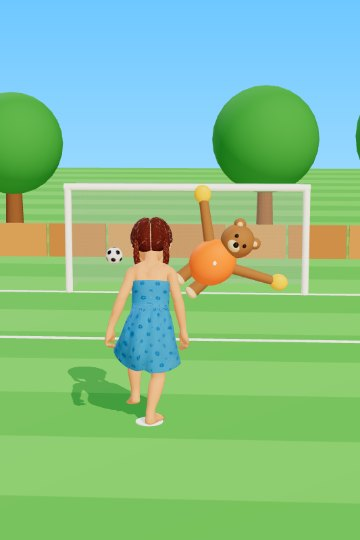
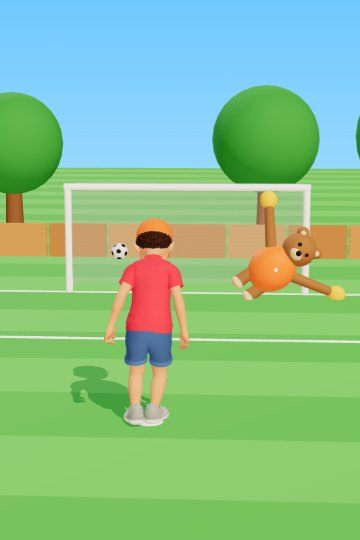
Forsiden: Hop og løb og Skateboard med en dreng, Straffespark med en dreng - seks billeder i to rækker

diff --git a/precache-manifest.js b/precache-manifest.js
@@ -1,2 +1,2 @@
-self.MINIMIG_VERSION = 'BD43AA967398ADFD';
-self.MINIMIG_FILES = ["billeder/figur.png","billeder/ikon-180.png","billeder/ikon-192.png","billeder/ikon-512.png","billeder/spil-dans.jpg","billeder/spil-gemmeleg.jpg","billeder/spil-hav.jpg","billeder/spil-straffe.jpg","bygogspil/baggrund/dansesal.jpg","bygogspil/baggrund/fodboldbane.jpg","bygogspil/baggrund/gymnastiksal.jpg","bygogspil/baggrund/havbund.jpg","bygogspil/baggrund/have.jpg","bygogspil/baggrund/ridderborg.jpg","bygogspil/baggrund/rummet.jpg","bygogspil/baggrund/skov.jpg","bygogspil/baggrund/slikland.jpg","bygogspil/baggrund/slot.jpg","bygogspil/baggrund/strand.jpg","bygogspil/baggrund/vinter.jpg","bygogspil/figur.fbx","bygogspil/figur-farve.jpg","bygogspil/figur-staa.json","bygogspil/haar-kort.jpg","bygogspil/haar-kort.json","bygogspil/ikoner/baggrund.png","bygogspil/ikoner/briller.png","bygogspil/ikoner/bryn.png","bygogspil/ikoner/bukser.png","bygogspil/ikoner/hat.png","bygogspil/ikoner/hud.png","bygogspil/ikoner/haar.png","bygogspil/ikoner/kinder.png","bygogspil/ikoner/kjoler.png","bygogspil/ikoner/mund.png","bygogspil/ikoner/naese.png","bygogspil/ikoner/navn.png","bygogspil/ikoner/ny-dreng.jpg","bygogspil/ikoner/ny-pige.jpg","bygogspil/ikoner/oejne.png","bygogspil/ikoner/oerer.png","bygogspil/ikoner/sko.png","bygogspil/ikoner/spil-gemmeleg.png","bygogspil/ikoner/spil-hav.png","bygogspil/ikoner/spil-hop.png","bygogspil/ikoner/spil-hop-bag.png","bygogspil/ikoner/spil-hop-for.png","bygogspil/ikoner/spil-oe.png","bygogspil/ikoner/spil-skate.png","bygogspil/ikoner/spil-straffe.png","bygogspil/ikoner/stilling-dans.png","bygogspil/ikoner/stilling-drej.png","bygogspil/ikoner/stilling-hop.png","bygogspil/ikoner/stilling-jubel.png","bygogspil/ikoner/stilling-kolboette.png","bygogspil/ikoner/stilling-loeb.png","bygogspil/ikoner/stilling-mindans.png","bygogspil/ikoner/stilling-spark.png","bygogspil/ikoner/stilling-staa.png","bygogspil/ikoner/stilling-vink.png","bygogspil/ikoner/stroemper.png","bygogspil/ikoner/ting.png","bygogspil/ikoner/troeje.png","bygogspil/ikoner/valg-bg-dansesal.png","bygogspil/ikoner/valg-bg-fodboldbane.png","bygogspil/ikoner/valg-bg-gymnastiksal.png","bygogspil/ikoner/valg-bg-havbund.png","bygogspil/ikoner/valg-bg-have.png","bygogspil/ikoner/valg-bg-ridderborg.png","bygogspil/ikoner/valg-bg-rummet.png","bygogspil/ikoner/valg-bg-skov.png","bygogspil/ikoner/valg-bg-slikland.png","bygogspil/ikoner/valg-bg-slot.png","bygogspil/ikoner/valg-bg-sol.png","bygogspil/ikoner/valg-bg-strand.png","bygogspil/ikoner/valg-bg-vinter.png","bygogspil/ikoner/valg-briller-hjerte.png","bygogspil/ikoner/valg-briller-runde.png","bygogspil/ikoner/valg-briller-sol.png","bygogspil/ikoner/valg-briller-stjerne.png","bygogspil/ikoner/valg-bryn-hoeje.png","bygogspil/ikoner/valg-bryn-ingen.png","bygogspil/ikoner/valg-bryn-naturlige.png","bygogspil/ikoner/valg-bryn-sure.png","bygogspil/ikoner/valg-bryn-triste.png","bygogspil/ikoner/valg-bryn-tykke.png","bygogspil/ikoner/valg-bryn-tynde.png","bygogspil/ikoner/valg-bukser-cowboy.png","bygogspil/ikoner/valg-bukser-fodbold.png","bygogspil/ikoner/valg-bukser-lange.png","bygogspil/ikoner/valg-bukser-shorts.png","bygogspil/ikoner/valg-dans.png","bygogspil/ikoner/valg-dans-arme.png","bygogspil/ikoner/valg-dans-break.png","bygogspil/ikoner/valg-dans-fjollet.png","bygogspil/ikoner/valg-dans-flair.png","bygogspil/ikoner/valg-dans-flair2.png","bygogspil/ikoner/valg-dans-hiphop.png","bygogspil/ikoner/valg-fald.png","bygogspil/ikoner/valg-hat-kanin.png","bygogspil/ikoner/valg-hat-kasket.png","bygogspil/ikoner/valg-hat-krone.png","bygogspil/ikoner/valg-hat-sloejfe.png","bygogspil/ikoner/valg-hop.png","bygogspil/ikoner/valg-hop-hoejt.png","bygogspil/ikoner/valg-hop-lille.png","bygogspil/ikoner/valg-hop-over.png","bygogspil/ikoner/valg-haar-fletning.png","bygogspil/ikoner/valg-haar-fletninger.png","bygogspil/ikoner/valg-haar-kort.png","bygogspil/ikoner/valg-haar-kroeller.png","bygogspil/ikoner/valg-haar-strit.png","bygogspil/ikoner/valg-ingen-dress.png","bygogspil/ikoner/valg-ingen-glasses.png","bygogspil/ikoner/valg-ingen-hat.png","bygogspil/ikoner/valg-ingen-item.png","bygogspil/ikoner/valg-ingen-oerering.png","bygogspil/ikoner/valg-ingen-pants.png","bygogspil/ikoner/valg-ingen-shirt.png","bygogspil/ikoner/valg-ingen-shoe.png","bygogspil/ikoner/valg-ingen-socks.png","bygogspil/ikoner/valg-jubel.png","bygogspil/ikoner/valg-jubel-klap.png","bygogspil/ikoner/valg-jubel-yes.png","bygogspil/ikoner/valg-kjole-havfrue.png","bygogspil/ikoner/valg-kjole-prinsesse.png","bygogspil/ikoner/valg-kjole-sommer.png","bygogspil/ikoner/valg-kolboette.png","bygogspil/ikoner/valg-loeb.png","bygogspil/ikoner/valg-loeb-a.png","bygogspil/ikoner/valg-loeb-b.png","bygogspil/ikoner/valg-loebehop.png","bygogspil/ikoner/valg-mund-grin.png","bygogspil/ikoner/valg-mund-kys.png","bygogspil/ikoner/valg-mund-neutral.png","bygogspil/ikoner/valg-mund-o.png","bygogspil/ikoner/valg-mund-smil.png","bygogspil/ikoner/valg-mund-trist.png","bygogspil/ikoner/valg-mund-tunge.png","bygogspil/ikoner/valg-naese-bred.png","bygogspil/ikoner/valg-naese-dyr.png","bygogspil/ikoner/valg-naese-klovn.png","bygogspil/ikoner/valg-naese-lang.png","bygogspil/ikoner/valg-naese-lille.png","bygogspil/ikoner/valg-naese-naturlig.png","bygogspil/ikoner/valg-niveau-let.png","bygogspil/ikoner/valg-niveau-meget-let.png","bygogspil/ikoner/valg-niveau-meget-svaer.png","bygogspil/ikoner/valg-niveau-mellem.png","bygogspil/ikoner/valg-niveau-svaer.png","bygogspil/ikoner/valg-oejne-blink.png","bygogspil/ikoner/valg-oejne-glad.png","bygogspil/ikoner/valg-oejne-hjerte.png","bygogspil/ikoner/valg-oejne-naturlige.png","bygogspil/ikoner/valg-oejne-stjerne.png","bygogspil/ikoner/valg-oejne-store.png","bygogspil/ikoner/valg-oejne-vipper.png","bygogspil/ikoner/valg-oerer-alfe.png","bygogspil/ikoner/valg-oerering-hjerter.png","bygogspil/ikoner/valg-oerering-perler.png","bygogspil/ikoner/valg-oerering-ringe.png","bygogspil/ikoner/valg-oerering-stjerner.png","bygogspil/ikoner/valg-oerer-naturlig.png","bygogspil/ikoner/valg-oerer-smaa.png","bygogspil/ikoner/valg-oerer-store.png","bygogspil/ikoner/valg-oerer-udstaaende.png","bygogspil/ikoner/valg-pynt-fregner.png","bygogspil/ikoner/valg-pynt-glimmer.png","bygogspil/ikoner/valg-pynt-hjerter.png","bygogspil/ikoner/valg-pynt-ingen.png","bygogspil/ikoner/valg-pynt-plaster.png","bygogspil/ikoner/valg-pynt-plet.png","bygogspil/ikoner/valg-pynt-regnbue.png","bygogspil/ikoner/valg-pynt-roede.png","bygogspil/ikoner/valg-pynt-stjerne.png","bygogspil/ikoner/valg-sko-ballet.png","bygogspil/ikoner/valg-sko-fodbold.png","bygogspil/ikoner/valg-sko-gummi.png","bygogspil/ikoner/valg-sko-hoej.png","bygogspil/ikoner/valg-sko-sneakers.png","bygogspil/ikoner/valg-snubl.png","bygogspil/ikoner/valg-spark.png","bygogspil/ikoner/valg-spark-hoejre.png","bygogspil/ikoner/valg-stroemper-ankel.png","bygogspil/ikoner/valg-stroemper-fodbold.png","bygogspil/ikoner/valg-stroemper-hoeje.png","bygogspil/ikoner/valg-staa.png","bygogspil/ikoner/valg-ting-ballon.png","bygogspil/ikoner/valg-ting-bamse.png","bygogspil/ikoner/valg-ting-blomst.png","bygogspil/ikoner/valg-ting-bold.png","bygogspil/ikoner/valg-ting-fodbold.png","bygogspil/ikoner/valg-ting-hulahop.png","bygogspil/ikoner/valg-ting-is.png","bygogspil/ikoner/valg-ting-paraply.png","bygogspil/ikoner/valg-ting-tryllestav.png","bygogspil/ikoner/valg-toej-fodbold.png","bygogspil/ikoner/valg-toej-haette.png","bygogspil/ikoner/valg-toej-tshirt.png","bygogspil/ikoner/valg-vink.png","bygogspil/index.html","bygogspil/three/build/three.module.min.js","bygogspil/three/examples/jsm/controls/OrbitControls.js","bygogspil/three/examples/jsm/curves/NURBSCurve.js","bygogspil/three/examples/jsm/curves/NURBSUtils.js","bygogspil/three/examples/jsm/libs/fflate.module.js","bygogspil/three/examples/jsm/loaders/FBXLoader.js","bygogspil/three/LICENSE","index.html","manifest.webmanifest","privatliv/index.html","pwa.css","pwa.js","style.css","support/index.html","til-foraeldre/index.html"];
+self.MINIMIG_VERSION = '18D7B1561CB4A032';
+self.MINIMIG_FILES = ["billeder/figur.png","billeder/ikon-180.png","billeder/ikon-192.png","billeder/ikon-512.png","billeder/spil-dans.jpg","billeder/spil-gemmeleg.jpg","billeder/spil-hav.jpg","billeder/spil-hop.jpg","billeder/spil-skate.jpg","billeder/spil-straffe.jpg","bygogspil/baggrund/dansesal.jpg","bygogspil/baggrund/fodboldbane.jpg","bygogspil/baggrund/gymnastiksal.jpg","bygogspil/baggrund/havbund.jpg","bygogspil/baggrund/have.jpg","bygogspil/baggrund/ridderborg.jpg","bygogspil/baggrund/rummet.jpg","bygogspil/baggrund/skov.jpg","bygogspil/baggrund/slikland.jpg","bygogspil/baggrund/slot.jpg","bygogspil/baggrund/strand.jpg","bygogspil/baggrund/vinter.jpg","bygogspil/figur.fbx","bygogspil/figur-farve.jpg","bygogspil/figur-staa.json","bygogspil/haar-kort.jpg","bygogspil/haar-kort.json","bygogspil/ikoner/baggrund.png","bygogspil/ikoner/briller.png","bygogspil/ikoner/bryn.png","bygogspil/ikoner/bukser.png","bygogspil/ikoner/hat.png","bygogspil/ikoner/hud.png","bygogspil/ikoner/haar.png","bygogspil/ikoner/kinder.png","bygogspil/ikoner/kjoler.png","bygogspil/ikoner/mund.png","bygogspil/ikoner/naese.png","bygogspil/ikoner/navn.png","bygogspil/ikoner/ny-dreng.jpg","bygogspil/ikoner/ny-pige.jpg","bygogspil/ikoner/oejne.png","bygogspil/ikoner/oerer.png","bygogspil/ikoner/sko.png","bygogspil/ikoner/spil-gemmeleg.png","bygogspil/ikoner/spil-hav.png","bygogspil/ikoner/spil-hop.png","bygogspil/ikoner/spil-hop-bag.png","bygogspil/ikoner/spil-hop-for.png","bygogspil/ikoner/spil-oe.png","bygogspil/ikoner/spil-skate.png","bygogspil/ikoner/spil-straffe.png","bygogspil/ikoner/stilling-dans.png","bygogspil/ikoner/stilling-drej.png","bygogspil/ikoner/stilling-hop.png","bygogspil/ikoner/stilling-jubel.png","bygogspil/ikoner/stilling-kolboette.png","bygogspil/ikoner/stilling-loeb.png","bygogspil/ikoner/stilling-mindans.png","bygogspil/ikoner/stilling-spark.png","bygogspil/ikoner/stilling-staa.png","bygogspil/ikoner/stilling-vink.png","bygogspil/ikoner/stroemper.png","bygogspil/ikoner/ting.png","bygogspil/ikoner/troeje.png","bygogspil/ikoner/valg-bg-dansesal.png","bygogspil/ikoner/valg-bg-fodboldbane.png","bygogspil/ikoner/valg-bg-gymnastiksal.png","bygogspil/ikoner/valg-bg-havbund.png","bygogspil/ikoner/valg-bg-have.png","bygogspil/ikoner/valg-bg-ridderborg.png","bygogspil/ikoner/valg-bg-rummet.png","bygogspil/ikoner/valg-bg-skov.png","bygogspil/ikoner/valg-bg-slikland.png","bygogspil/ikoner/valg-bg-slot.png","bygogspil/ikoner/valg-bg-sol.png","bygogspil/ikoner/valg-bg-strand.png","bygogspil/ikoner/valg-bg-vinter.png","bygogspil/ikoner/valg-briller-hjerte.png","bygogspil/ikoner/valg-briller-runde.png","bygogspil/ikoner/valg-briller-sol.png","bygogspil/ikoner/valg-briller-stjerne.png","bygogspil/ikoner/valg-bryn-hoeje.png","bygogspil/ikoner/valg-bryn-ingen.png","bygogspil/ikoner/valg-bryn-naturlige.png","bygogspil/ikoner/valg-bryn-sure.png","bygogspil/ikoner/valg-bryn-triste.png","bygogspil/ikoner/valg-bryn-tykke.png","bygogspil/ikoner/valg-bryn-tynde.png","bygogspil/ikoner/valg-bukser-cowboy.png","bygogspil/ikoner/valg-bukser-fodbold.png","bygogspil/ikoner/valg-bukser-lange.png","bygogspil/ikoner/valg-bukser-shorts.png","bygogspil/ikoner/valg-dans.png","bygogspil/ikoner/valg-dans-arme.png","bygogspil/ikoner/valg-dans-break.png","bygogspil/ikoner/valg-dans-fjollet.png","bygogspil/ikoner/valg-dans-flair.png","bygogspil/ikoner/valg-dans-flair2.png","bygogspil/ikoner/valg-dans-hiphop.png","bygogspil/ikoner/valg-fald.png","bygogspil/ikoner/valg-hat-kanin.png","bygogspil/ikoner/valg-hat-kasket.png","bygogspil/ikoner/valg-hat-krone.png","bygogspil/ikoner/valg-hat-sloejfe.png","bygogspil/ikoner/valg-hop.png","bygogspil/ikoner/valg-hop-hoejt.png","bygogspil/ikoner/valg-hop-lille.png","bygogspil/ikoner/valg-hop-over.png","bygogspil/ikoner/valg-haar-fletning.png","bygogspil/ikoner/valg-haar-fletninger.png","bygogspil/ikoner/valg-haar-kort.png","bygogspil/ikoner/valg-haar-kroeller.png","bygogspil/ikoner/valg-haar-strit.png","bygogspil/ikoner/valg-ingen-dress.png","bygogspil/ikoner/valg-ingen-glasses.png","bygogspil/ikoner/valg-ingen-hat.png","bygogspil/ikoner/valg-ingen-item.png","bygogspil/ikoner/valg-ingen-oerering.png","bygogspil/ikoner/valg-ingen-pants.png","bygogspil/ikoner/valg-ingen-shirt.png","bygogspil/ikoner/valg-ingen-shoe.png","bygogspil/ikoner/valg-ingen-socks.png","bygogspil/ikoner/valg-jubel.png","bygogspil/ikoner/valg-jubel-klap.png","bygogspil/ikoner/valg-jubel-yes.png","bygogspil/ikoner/valg-kjole-havfrue.png","bygogspil/ikoner/valg-kjole-prinsesse.png","bygogspil/ikoner/valg-kjole-sommer.png","bygogspil/ikoner/valg-kolboette.png","bygogspil/ikoner/valg-loeb.png","bygogspil/ikoner/valg-loeb-a.png","bygogspil/ikoner/valg-loeb-b.png","bygogspil/ikoner/valg-loebehop.png","bygogspil/ikoner/valg-mund-grin.png","bygogspil/ikoner/valg-mund-kys.png","bygogspil/ikoner/valg-mund-neutral.png","bygogspil/ikoner/valg-mund-o.png","bygogspil/ikoner/valg-mund-smil.png","bygogspil/ikoner/valg-mund-trist.png","bygogspil/ikoner/valg-mund-tunge.png","bygogspil/ikoner/valg-naese-bred.png","bygogspil/ikoner/valg-naese-dyr.png","bygogspil/ikoner/valg-naese-klovn.png","bygogspil/ikoner/valg-naese-lang.png","bygogspil/ikoner/valg-naese-lille.png","bygogspil/ikoner/valg-naese-naturlig.png","bygogspil/ikoner/valg-niveau-let.png","bygogspil/ikoner/valg-niveau-meget-let.png","bygogspil/ikoner/valg-niveau-meget-svaer.png","bygogspil/ikoner/valg-niveau-mellem.png","bygogspil/ikoner/valg-niveau-svaer.png","bygogspil/ikoner/valg-oejne-blink.png","bygogspil/ikoner/valg-oejne-glad.png","bygogspil/ikoner/valg-oejne-hjerte.png","bygogspil/ikoner/valg-oejne-naturlige.png","bygogspil/ikoner/valg-oejne-stjerne.png","bygogspil/ikoner/valg-oejne-store.png","bygogspil/ikoner/valg-oejne-vipper.png","bygogspil/ikoner/valg-oerer-alfe.png","bygogspil/ikoner/valg-oerering-hjerter.png","bygogspil/ikoner/valg-oerering-perler.png","bygogspil/ikoner/valg-oerering-ringe.png","bygogspil/ikoner/valg-oerering-stjerner.png","bygogspil/ikoner/valg-oerer-naturlig.png","bygogspil/ikoner/valg-oerer-smaa.png","bygogspil/ikoner/valg-oerer-store.png","bygogspil/ikoner/valg-oerer-udstaaende.png","bygogspil/ikoner/valg-pynt-fregner.png","bygogspil/ikoner/valg-pynt-glimmer.png","bygogspil/ikoner/valg-pynt-hjerter.png","bygogspil/ikoner/valg-pynt-ingen.png","bygogspil/ikoner/valg-pynt-plaster.png","bygogspil/ikoner/valg-pynt-plet.png","bygogspil/ikoner/valg-pynt-regnbue.png","bygogspil/ikoner/valg-pynt-roede.png","bygogspil/ikoner/valg-pynt-stjerne.png","bygogspil/ikoner/valg-sko-ballet.png","bygogspil/ikoner/valg-sko-fodbold.png","bygogspil/ikoner/valg-sko-gummi.png","bygogspil/ikoner/valg-sko-hoej.png","bygogspil/ikoner/valg-sko-sneakers.png","bygogspil/ikoner/valg-snubl.png","bygogspil/ikoner/valg-spark.png","bygogspil/ikoner/valg-spark-hoejre.png","bygogspil/ikoner/valg-stroemper-ankel.png","bygogspil/ikoner/valg-stroemper-fodbold.png","bygogspil/ikoner/valg-stroemper-hoeje.png","bygogspil/ikoner/valg-staa.png","bygogspil/ikoner/valg-ting-ballon.png","bygogspil/ikoner/valg-ting-bamse.png","bygogspil/ikoner/valg-ting-blomst.png","bygogspil/ikoner/valg-ting-bold.png","bygogspil/ikoner/valg-ting-fodbold.png","bygogspil/ikoner/valg-ting-hulahop.png","bygogspil/ikoner/valg-ting-is.png","bygogspil/ikoner/valg-ting-paraply.png","bygogspil/ikoner/valg-ting-tryllestav.png","bygogspil/ikoner/valg-toej-fodbold.png","bygogspil/ikoner/valg-toej-haette.png","bygogspil/ikoner/valg-toej-tshirt.png","bygogspil/ikoner/valg-vink.png","bygogspil/index.html","bygogspil/three/build/three.module.min.js","bygogspil/three/examples/jsm/controls/OrbitControls.js","bygogspil/three/examples/jsm/curves/NURBSCurve.js","bygogspil/three/examples/jsm/curves/NURBSUtils.js","bygogspil/three/examples/jsm/libs/fflate.module.js","bygogspil/three/examples/jsm/loaders/FBXLoader.js","bygogspil/three/LICENSE","index.html","manifest.webmanifest","privatliv/index.html","pwa.css","pwa.js","style.css","support/index.html","til-foraeldre/index.html"];

diff --git a/index.html b/index.html
@@ -39,12 +39,14 @@
     <div class="pic"><img src="billeder/figur.png" width="800" height="600" alt="En glad dreng og pige fra MiniMig, der vinker"></div>
   </section>
 
-  <!-- (pictures from the game itself: a dance, the sea, hide and seek, a penalty kick) -->
+  <!-- (pictures from the game itself, a boy and a girl by turns - the user, 03-11-2026) -->
   <section class="shots" aria-label="Billeder fra MiniMig">
+    <figure><img src="billeder/spil-hop.jpg" width="360" height="540" alt="En dreng i rød T-shirt og kasket, der hopper over en badebold" loading="lazy"><figcaption>Hop og løb</figcaption></figure>
     <figure><img src="billeder/spil-dans.jpg" width="360" height="540" alt="En pige i sommerkjole, der danser" loading="lazy"><figcaption>Dans</figcaption></figure>
-    <figure><img src="billeder/spil-hav.jpg" width="360" height="540" alt="Figuren svømmer under vandet mellem stjernebobler og en vandmand" loading="lazy"><figcaption>Svømmeverden</figcaption></figure>
-    <figure><img src="billeder/spil-gemmeleg.jpg" width="360" height="540" alt="Figuren hopper frem bag en busk på en ø med palmer" loading="lazy"><figcaption>Gemmeleg</figcaption></figure>
-    <figure><img src="billeder/spil-straffe.jpg" width="360" height="540" alt="Figuren sparker en bold mod målet, hvor en bamse kaster sig" loading="lazy"><figcaption>Straffespark</figcaption></figure>
+    <figure><img src="billeder/spil-skate.jpg" width="360" height="540" alt="En dreng på skateboard på en asfaltvej med kegler, kasser og stjerner" loading="lazy"><figcaption>Skateboard</figcaption></figure>
+    <figure><img src="billeder/spil-hav.jpg" width="360" height="540" alt="En pige svømmer under vandet mellem stjernebobler og en vandmand" loading="lazy"><figcaption>Svømmeverden</figcaption></figure>
+    <figure><img src="billeder/spil-straffe.jpg" width="360" height="540" alt="En dreng sparker en bold mod målet, hvor en bamse kaster sig" loading="lazy"><figcaption>Straffespark</figcaption></figure>
+    <figure><img src="billeder/spil-gemmeleg.jpg" width="360" height="540" alt="En pige hopper frem bag en busk på en ø med palmer" loading="lazy"><figcaption>Gemmeleg</figcaption></figure>
   </section>
 
   <section class="cards">

diff --git a/style.css b/style.css
@@ -35,8 +35,8 @@ nav a:hover, nav a[aria-current] { color: var(--ink); }
 .badge small { display: block; font-weight: 600; font-size: .75rem; opacity: .8; }
 
 .cards { display: grid; grid-template-columns: repeat(3, 1fr); gap: 14px; margin: 34px 0; }
-/* (pictures from the game in a row - four across, two by two on a phone) */
-.shots { display: grid; grid-template-columns: repeat(4, 1fr); gap: 12px; margin: 26px 0 0; }
+/* (pictures from the game - three across in two rows, two across on a phone) */
+.shots { display: grid; grid-template-columns: repeat(3, 1fr); gap: 14px; margin: 26px 0 0; }
 .shots figure { margin: 0; text-align: center; }
 .shots img { width: 100%; height: auto; border-radius: 18px; box-shadow: 0 4px 14px var(--shadow); display: block; }
 .shots figcaption { margin-top: 6px; font-weight: 800; font-size: .95rem; }
